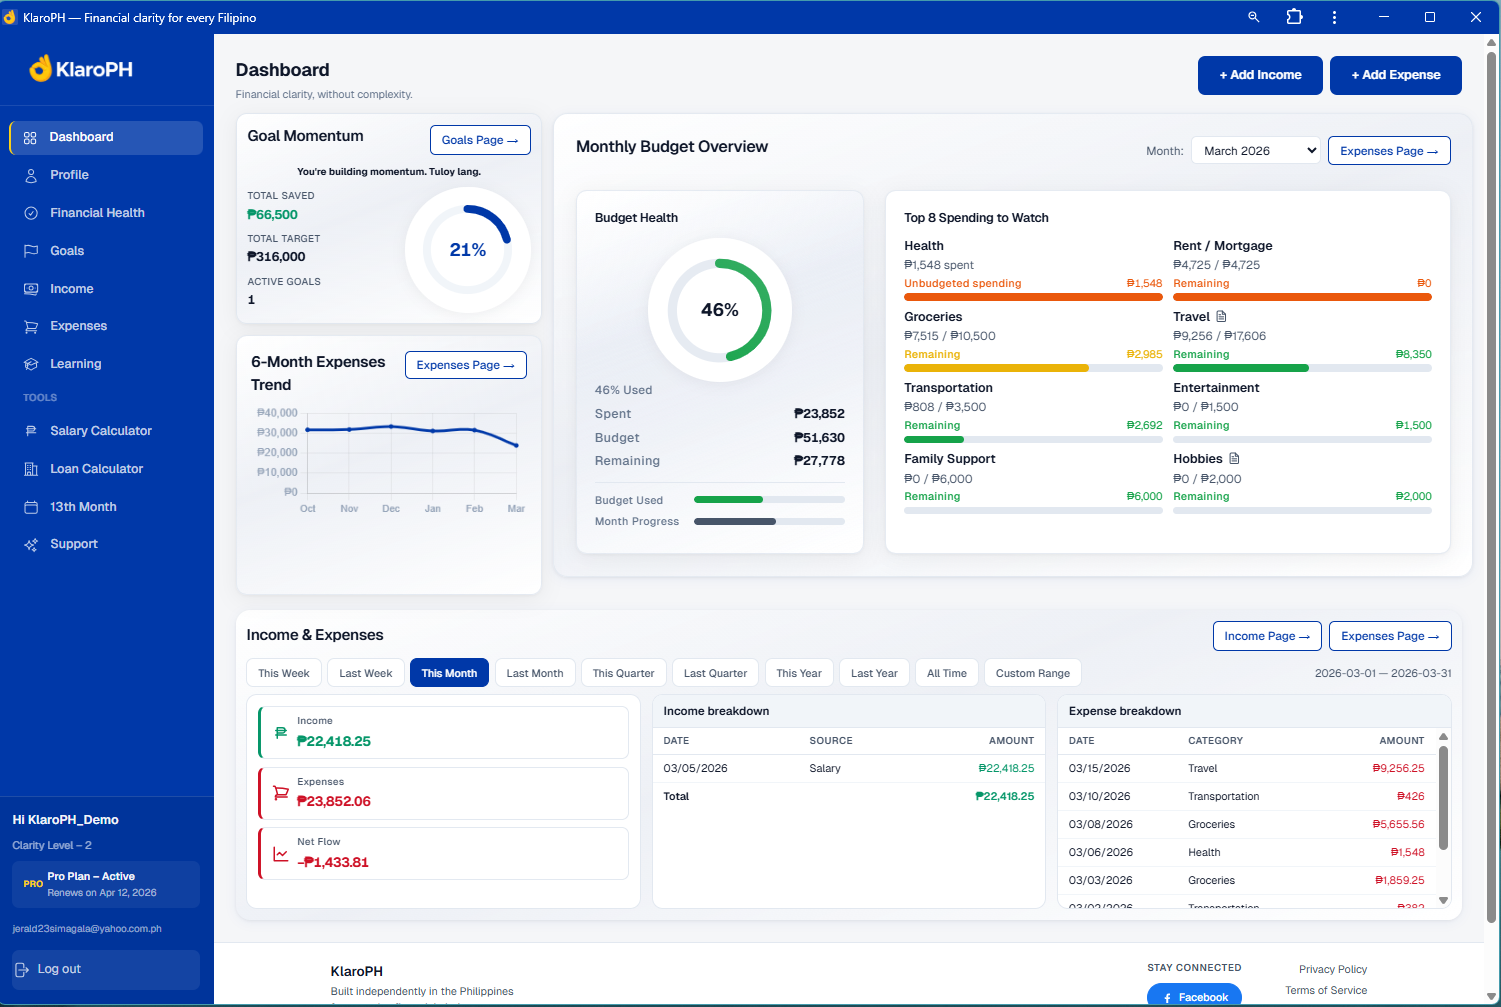
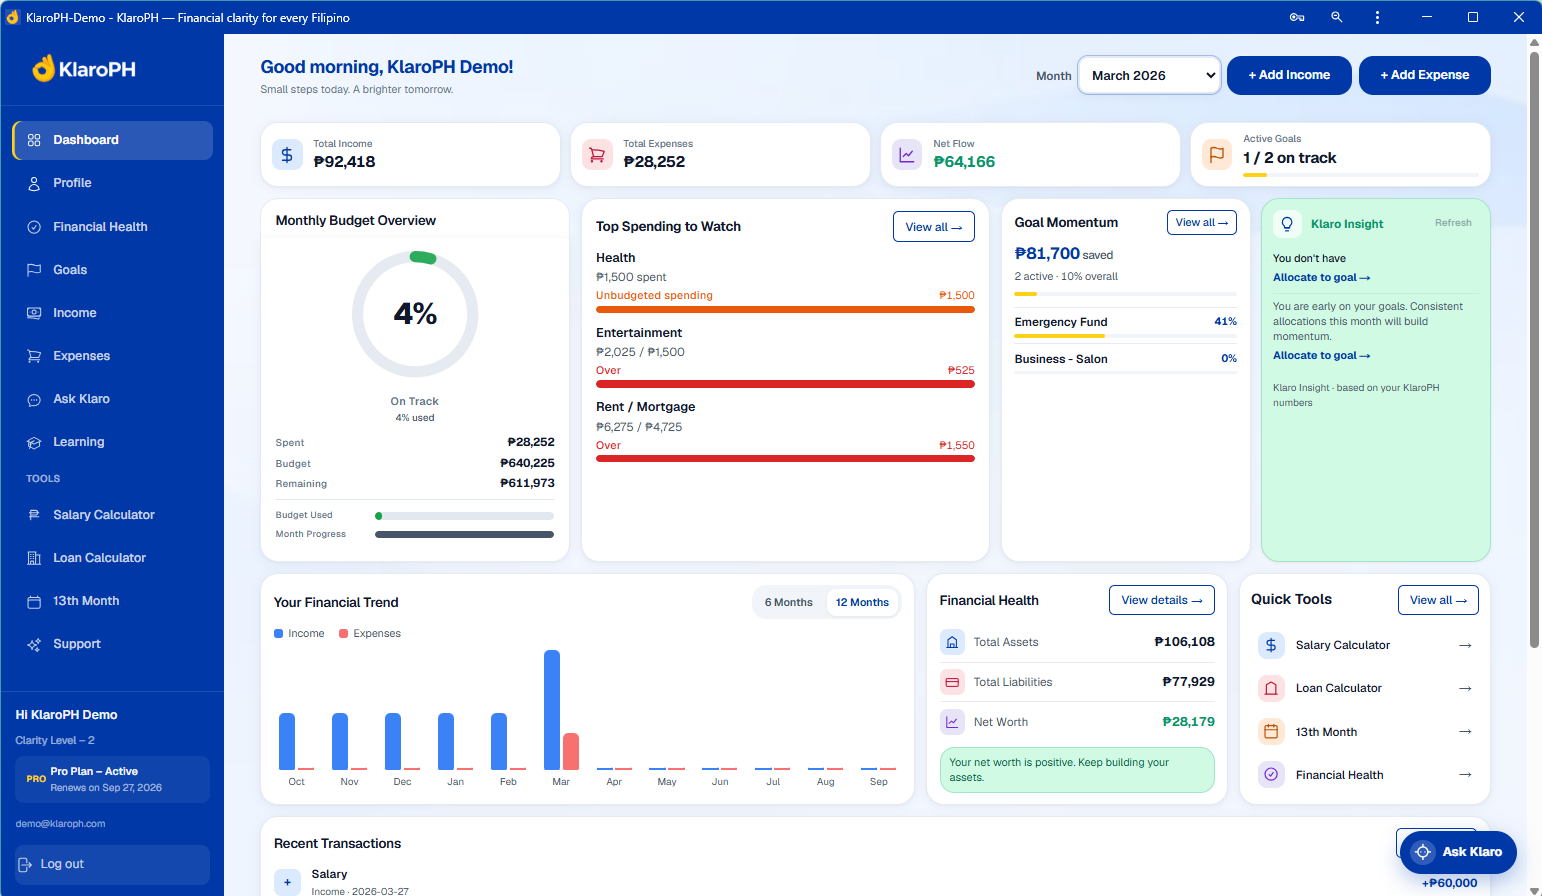
fix: polish landing hero and mobile experience

diff --git a/components/landing/LandingPageClient.tsx b/components/landing/LandingPageClient.tsx
@@ -2,9 +2,9 @@
 
 import { useState, useEffect, useRef } from 'react'
 import dynamic from 'next/dynamic'
-import Image from 'next/image'
+import Image, { getImageProps } from 'next/image'
 import Link from 'next/link'
-import { createPortal } from 'react-dom'
+import { createPortal, preload } from 'react-dom'
 import { useRouter } from 'next/navigation'
 import { supabase } from '../../lib/supabaseClient'
 import KlaroPHHandLogo from '../../components/ui/KlaroPHHandLogo'
@@ -20,6 +20,8 @@ import {
 import { PRO_ANNUAL_PESOS, PRO_MONTHLY_PESOS, formatPlanPeso } from '@/lib/planPricing'
 import { LandingPromoCodeCapture } from './LandingPromoCodeCapture'
 import PasswordInput from '@/components/auth/PasswordInput'
+import heroWebImage from '@/public/web.png'
+import heroMobileImage from '@/public/mobile.png'
 
 const HowKlaroPHWorksModal = dynamic(
   () => import('../../components/onboarding/HowKlaroPHWorksModal'),
@@ -130,7 +132,25 @@ const HOW_STEPS = [
   { title: 'Track your financial clarity', icon: '📊' },
 ]
 
+/**
+ * Must match what KlaroPHHandLogo renders for the login overlay (size 36, onWhite) so the
+ * preloaded response is the same srcset candidate. The overlay only mounts as sign-in navigates
+ * away, and iOS WebKit shows a broken-image glyph if that first fetch is cancelled mid-flight.
+ */
+const { props: loginOverlayLogo } = getImageProps({
+  src: '/logo-klaroph-blue.png',
+  alt: '',
+  width: 130,
+  height: 36,
+  sizes: '(max-width: 900px) 120px, 202px',
+})
+
 export default function LandingPageClient() {
+  preload(loginOverlayLogo.src, {
+    as: 'image',
+    imageSrcSet: loginOverlayLogo.srcSet,
+    imageSizes: loginOverlayLogo.sizes,
+  })
   const router = useRouter()
   const [email, setEmail] = useState('')
   const [password, setPassword] = useState('')
@@ -325,20 +345,16 @@ export default function LandingPageClient() {
             <div className="landing-hero-right">
               <div className="landing-hero-mock-stack">
                 <Image
-                  src="/web.png"
+                  src={heroWebImage}
                   alt="KlaroPH web dashboard showing financial overview"
-                  width={1501}
-                  height={1007}
                   sizes="(max-width: 768px) 340px, (max-width: 900px) 580px, 760px"
                   className="landing-hero-mock-image landing-hero-mock-web"
                   priority
                 />
                 <Image
-                  src="/mobile.png"
+                  src={heroMobileImage}
                   alt="KlaroPH mobile app showing financial tracking"
-                  width={1366}
-                  height={768}
-                  sizes="(max-width: 768px) 340px, (max-width: 900px) 174px, 798px"
+                  sizes="(max-width: 768px) 92px, (max-width: 900px) 156px, 205px"
                   className="landing-hero-mock-image landing-hero-mock-mobile"
                   priority
                 />

diff --git a/app/globals.css b/app/globals.css
@@ -2976,9 +2976,9 @@ html { scroll-behavior: smooth; }
 
 .landing-hero-mock-mobile {
   position: absolute;
-  bottom: -15%;
-  right: -52.5%;
-  width: 105%;
+  bottom: -15.7%;
+  right: -16%;
+  width: 26.9%;
   z-index: 3;
   pointer-events: none;
   border-radius: 0;
@@ -2987,15 +2987,6 @@ html { scroll-behavior: smooth; }
   box-shadow: none;
   background: transparent;
 }
-
-.landing-hero-mock-mobile .landing-hero-mock-image {
-  border-radius: 0;
-  border: 0;
-  outline: none;
-  box-shadow: none;
-  background: transparent;
-}
-
 
 
 /* How it works */
@@ -4350,7 +4341,6 @@ html { scroll-behavior: smooth; }
   .landing-hero-ctas { margin-left: auto; margin-right: auto; }
   .landing-hero-right { order: -1; justify-content: center; }
   .landing-hero-mock-stack { max-width: 580px; margin: 0 auto; }
-  .landing-hero-mock-mobile { width: 30%; }
   .landing-features-responsive { grid-template-columns: repeat(2, 1fr); }
   .landing-how-steps { grid-template-columns: 1fr; }
   .landing-compare-grid { grid-template-columns: 1fr; }
@@ -4472,24 +4462,8 @@ html { scroll-behavior: smooth; }
   }
 
   .landing-hero-mock-mobile {
-    position: absolute;
-    bottom: -5%;
-    right: -37.5%;
-    width: 100%;
-    z-index: 3;
-    border-radius: 0;
-    border: 0;
-    outline: none;
-    box-shadow: none;
-    background: transparent;
-  }
-
-  .landing-hero-mock-mobile .landing-hero-mock-image {
-    border-radius: 0;
-    border: 0;
-    outline: none;
-    box-shadow: none;
-    background: transparent;
+    bottom: -4.1%;
+    right: -1%;
   }
 }
 
